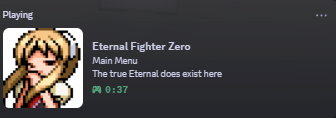
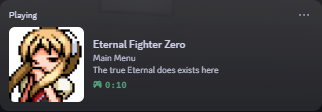
Updated the screnshots and the  version number.

Changed region(s): [[0.0, 0.2143, 0.6832, 0.9375], [0.0, 0.0804, 0.1242, 0.1875], [0.9317, 0.1071, 0.9938, 0.1607]]

diff --git a/include/version.h b/include/version.h
@@ -5,5 +5,5 @@
 #define EFZDA_VERSION_PATCH 0
 
 #ifndef EFZDA_VERSION
-#define EFZDA_VERSION "1.1.0"
+#define EFZDA_VERSION "1.1.1"
 #endif